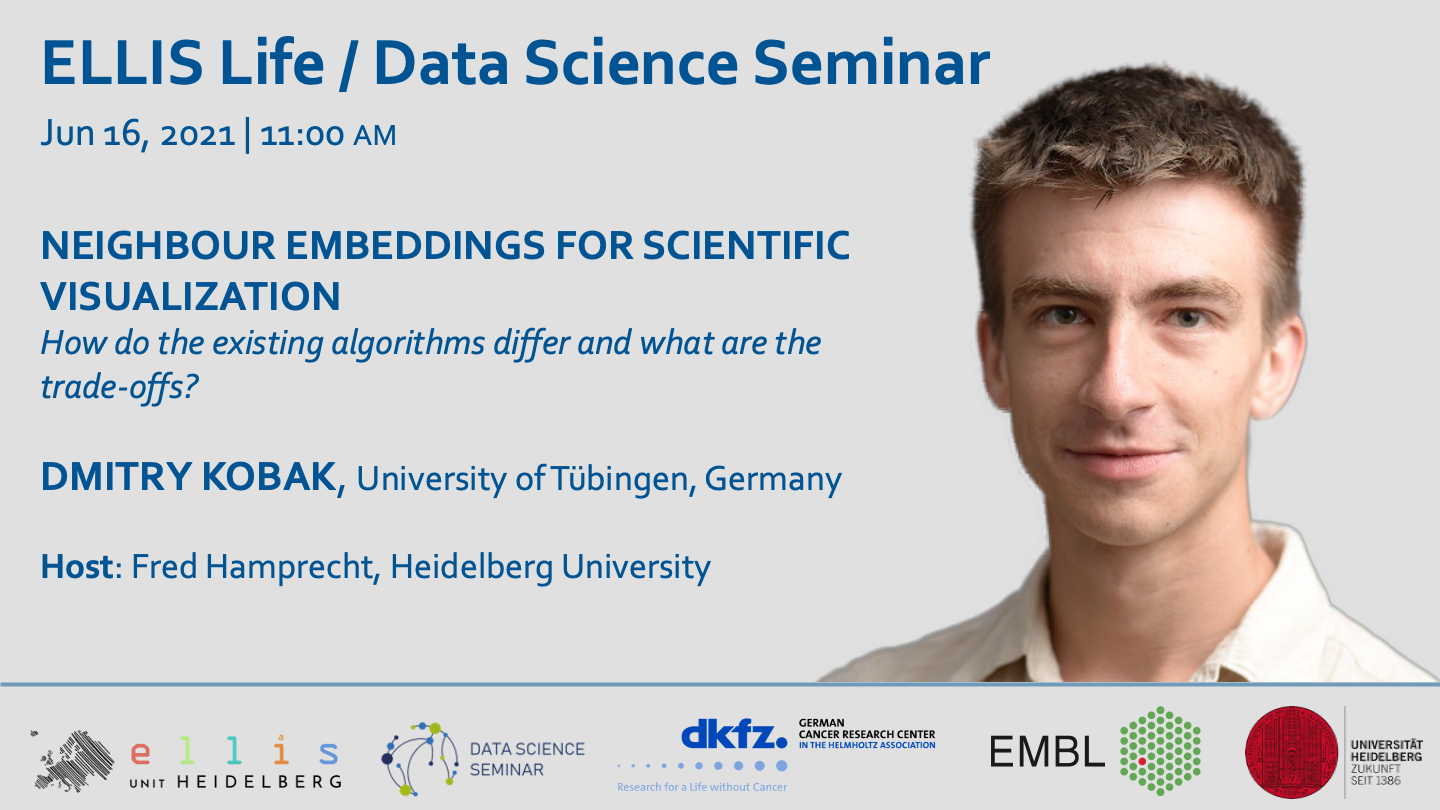
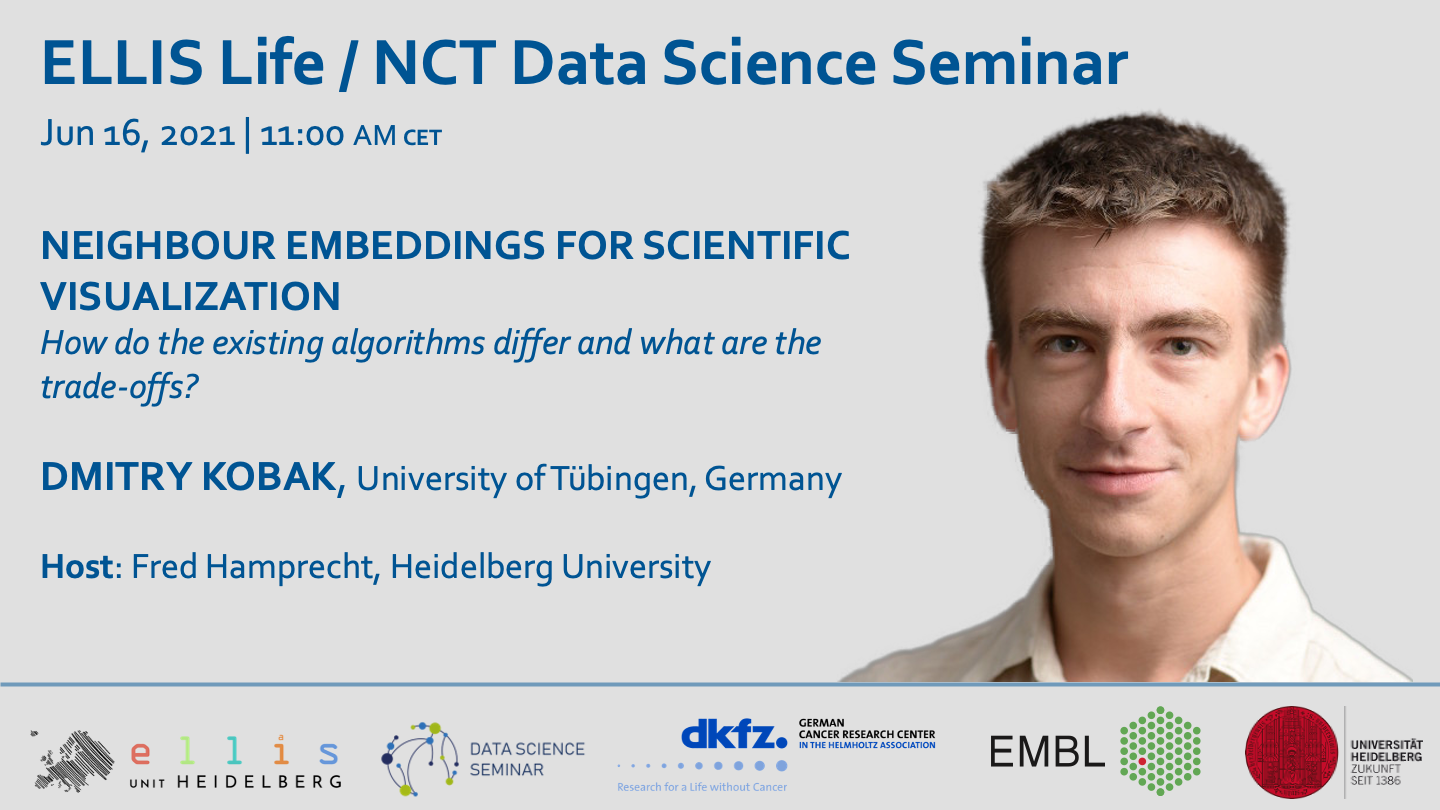
Update seminar information

Changed region(s): [[0.25, 0.0309, 1.0, 0.8642], [0.5625, 0.8025, 0.625, 0.8642], [0.2812, 0.1543, 0.3125, 0.1852]]

diff --git a/_layouts/post.html b/_layouts/post.html
@@ -4,9 +4,6 @@ layout: default
 
 <h1>{{ page.title }}</h1>
 <div class="event-info">
-	{% if page.poster %}
-		<img src="/assets/img/posts/{{ page.poster }}" class="event-poster"/>
-	{% endif %}
 	<h2>{{ page.event_title }}</h2>
 	<p class="event-subtitle">{{ page.event_subtitle }}</p>
 	<p class="event-person">{{ page.event_person }}</p>
@@ -26,6 +23,10 @@ layout: default
 				{{ page.date | date_to_string }}
 			{% endif %}
 		</p>
+	{% endif %}
+
+	{% if page.poster %}
+		<img src="/assets/img/posts/{{ page.poster }}" class="event-poster"/>
 	{% endif %}
 
 	{% if page.link %}

diff --git a/assets/css/style.scss b/assets/css/style.scss
@@ -615,8 +615,9 @@ footer .copyright {
     font-size: 1.3em;
   }
   .event-poster {
-    max-width: 70%;
-    margin: 0 0 3em 0;
+    display: block;
+    max-width: 50%;
+    margin: 3em 0;
     border-radius: 2em;
     box-shadow: 0 .1em .2em $leadlightgrey;
     
@@ -627,7 +628,8 @@ footer .copyright {
   .event-link {
     display: inline-block;
     font-size: 1.3em;
-    margin: 1em 0;
+    margin: 0;
+    margin-bottom: 2em;
     text-decoration: none;
     border-bottom: 1px solid lighten($primary, 40%);
     &:hover {

diff --git a/_posts/2021-06-16-ellis-life-data-science-seminar-dmitry-kobak.md b/_posts/2021-06-16-ellis-life-data-science-seminar-dmitry-kobak.md
@@ -1,6 +1,6 @@
 ---
 layout: post
-title: "ELLIS Life / Data Science Seminar: Dmitry Kobak"
+title: "ELLIS Life / NCT Data Science Seminar: Dmitry Kobak"
 event_title: "Neighbour Embeddings for Scientific Visualization"
 event_subtitle: "How do the existing algorithms differ and what are the trade-offs?"
 event_person: "Dmitry Kobak, University of Tübingen"
